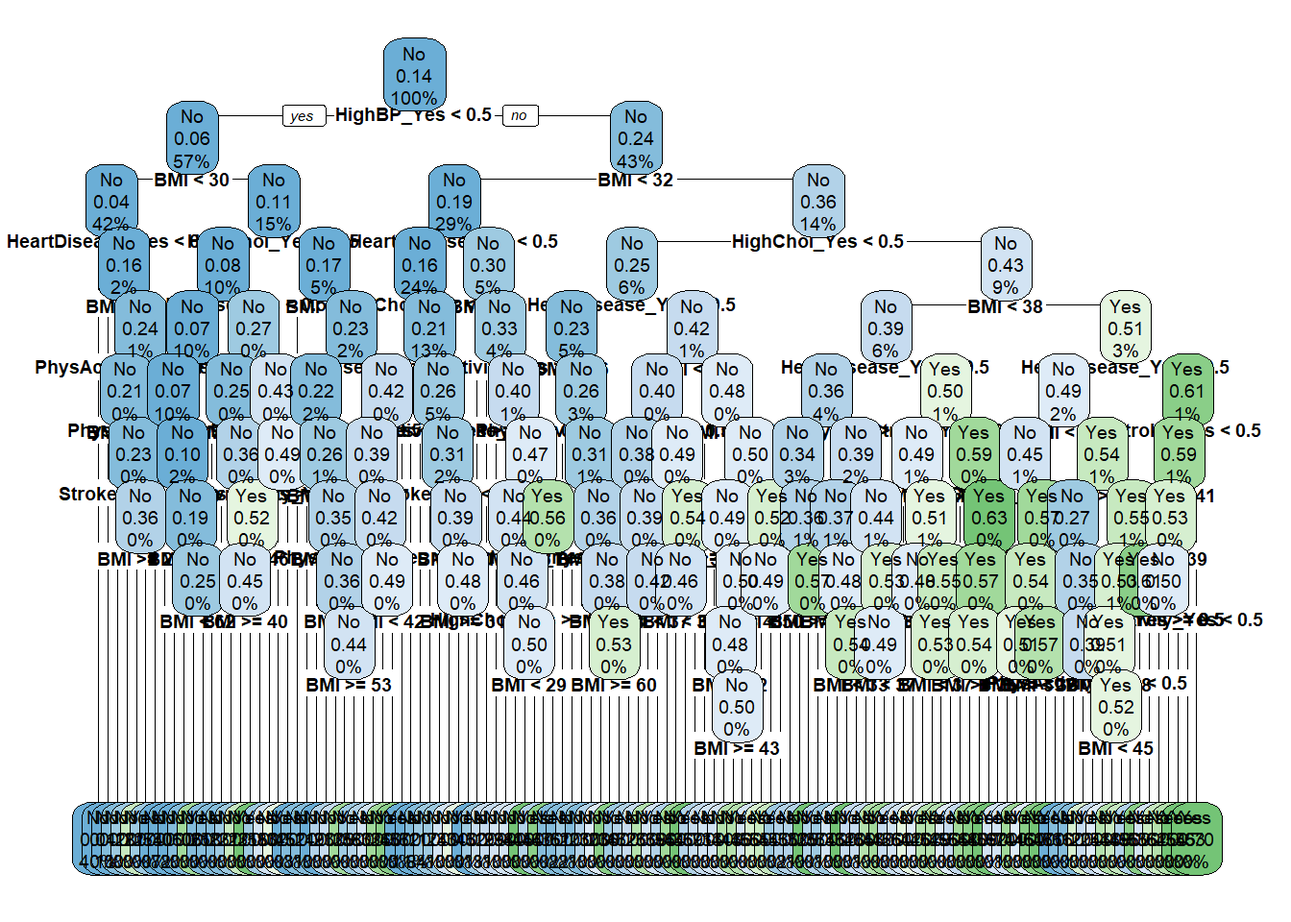
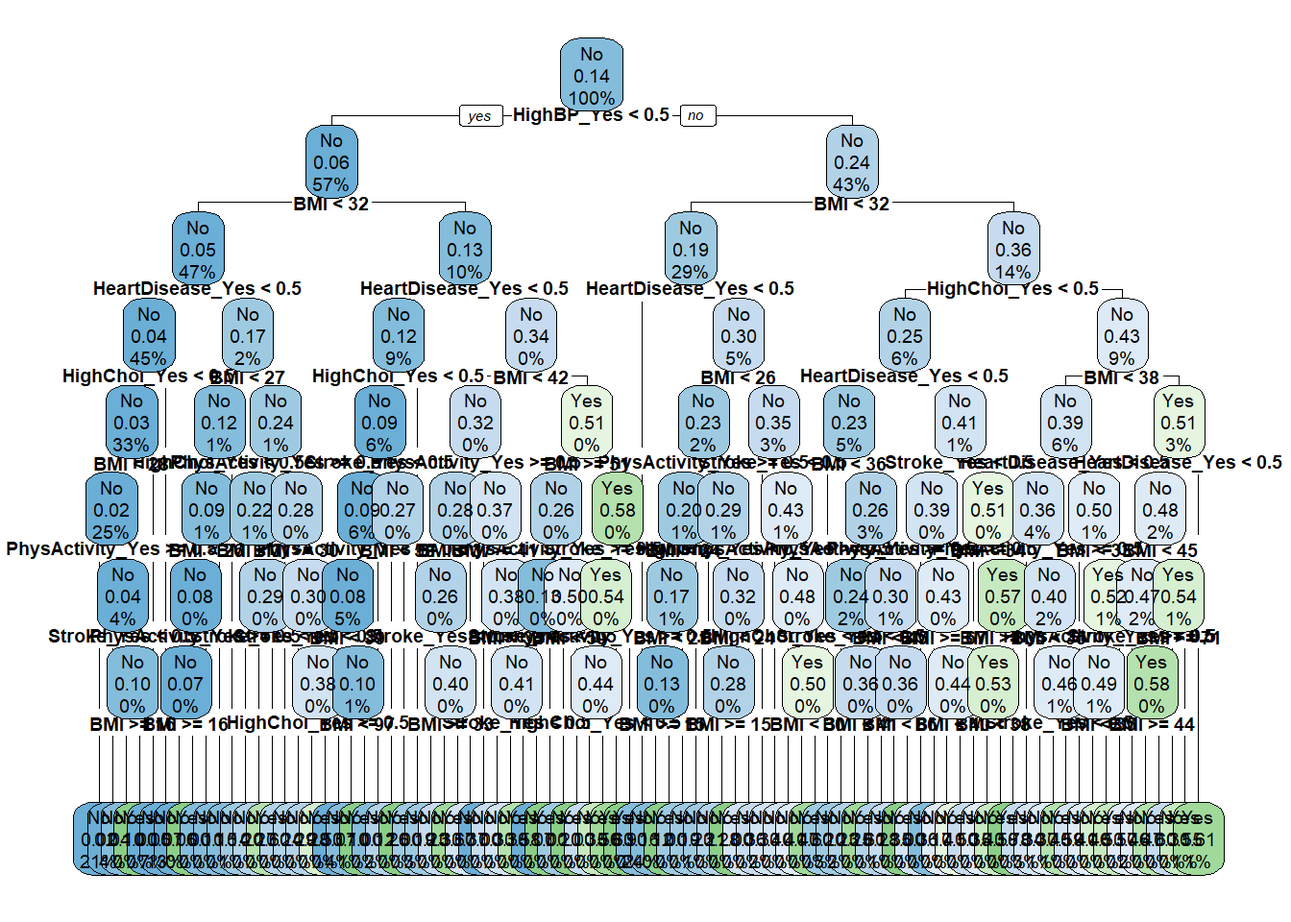
Final Commit

diff --git a/docs/Modeling.html b/docs/Modeling.html
@@ -135,7 +135,7 @@ pre > code.sourceCode > span > a:first-child::before { text-decoration: underlin
 
 <section id="purpose-of-model" class="level2">
 <h2 class="anchored" data-anchor-id="purpose-of-model">Purpose of Model</h2>
-<p>The Purpose of this modeling anlaysis is to use our six choosen predicator variables to find the best model fit that predicates diabetes status. Our metric used to evaluate the models will be log-loss, and the two model types will be a classification tree and a random forest. Both models will be trained using a 70/30 split with a 5 fold cross-validation.</p>
+<p>The Purpose of this modeling analysis is to use our six choosen predictor variables to find the best model fit that predicates diabetes status. Our metric used to evaluate the models will be log-loss, and the two model types will be a classification tree and a random forest. Both models will be trained using a 70/30 split with a 5 fold cross-validation.</p>
 <section id="reading-in-data" class="level3">
 <h3 class="anchored" data-anchor-id="reading-in-data">Reading in Data</h3>
 <div class="cell">
@@ -169,11 +169,11 @@ pre > code.sourceCode > span > a:first-child::before { text-decoration: underlin
 ✖ dplyr::lag()      masks stats::lag()
 ✖ yardstick::spec() masks readr::spec()
 ✖ recipes::step()   masks stats::step()
-• Learn how to get started at https://www.tidymodels.org/start/</code></pre>
+• Use suppressPackageStartupMessages() to eliminate package startup messages</code></pre>
 </div>
 <div class="sourceCode cell-code" id="cb5"><pre class="sourceCode r code-with-copy"><code class="sourceCode r"><span id="cb5-1"><a href="#cb5-1" aria-hidden="true" tabindex="-1"></a><span class="fu">library</span>(ranger)</span>
 <span id="cb5-2"><a href="#cb5-2" aria-hidden="true" tabindex="-1"></a><span class="fu">library</span>(parsnip)</span>
-<span id="cb5-3"><a href="#cb5-3" aria-hidden="true" tabindex="-1"></a><span class="fu">library</span>(readr)</span></code><button title="Copy to Clipboard" class="code-copy-button"><i class="bi"></i></button></pre></div>
+<span id="cb5-3"><a href="#cb5-3" aria-hidden="true" tabindex="-1"></a><span class="fu">library</span>(readr) <span class="co"># rendering was having issues with read_csv when linked thought this may help</span></span></code><button title="Copy to Clipboard" class="code-copy-button"><i class="bi"></i></button></pre></div>
 </div>
 <div class="cell">
 <div class="sourceCode cell-code" id="cb6"><pre class="sourceCode r code-with-copy"><code class="sourceCode r"><span id="cb6-1"><a href="#cb6-1" aria-hidden="true" tabindex="-1"></a><span class="co"># Reading in CSV file of DHI data</span></span>
@@ -248,13 +248,13 @@ dbl (22): Diabetes_binary, HighBP, HighChol, CholCheck, BMI, Smoker, Stroke,...
 <span id="cb11-5"><a href="#cb11-5" aria-hidden="true" tabindex="-1"></a>    <span class="st">"HeartDisease"</span> <span class="ot">=</span> HeartDiseaseorAttack,</span>
 <span id="cb11-6"><a href="#cb11-6" aria-hidden="true" tabindex="-1"></a>    <span class="st">"HvyAlch"</span> <span class="ot">=</span> HvyAlcoholConsump,</span>
 <span id="cb11-7"><a href="#cb11-7" aria-hidden="true" tabindex="-1"></a>    <span class="st">"Healthcare"</span> <span class="ot">=</span> AnyHealthcare,</span>
-<span id="cb11-8"><a href="#cb11-8" aria-hidden="true" tabindex="-1"></a>    <span class="st">"NoDoc"</span> <span class="ot">=</span> NoDocbcCost,</span>
+<span id="cb11-8"><a href="#cb11-8" aria-hidden="true" tabindex="-1"></a>    <span class="st">"NoDoc"</span> <span class="ot">=</span> NoDocbcCost</span>
 <span id="cb11-9"><a href="#cb11-9" aria-hidden="true" tabindex="-1"></a>  )</span></code><button title="Copy to Clipboard" class="code-copy-button"><i class="bi"></i></button></pre></div>
 </div>
 </section>
 <section id="classification-tree" class="level3">
 <h3 class="anchored" data-anchor-id="classification-tree">Classification Tree</h3>
-<p>The first model we will be creating is a classification tree, which is a logistic regression model commonly used when you have a binary response variable, such as Diabetes status in our case. It is a tree based model meaning that is based upon the a decision tree, which is a representation how different predictor variables can be used to create a prediction of a target value. A classification tree “normally” works by using the most commonly occurring class of observations as the predictions for its regions, and these regions are created by splitting up the predictor space. This allows for numerous predictions to be made . Properly choosing the number of splits is important to control for overfitting (too many splits) and underfitting (too few splits), unfortunately their is no optimal algorithm to choose splits and the quantity must factor in the benefit/cost of increased processing time. Generally you will start with more splits then prune them down in order make sure that the model is not overfitted (aka does not predict well when using unseen data), and in our case we will be using cross-validation to achieve this. Specifically, by splitting our data up into different folds we can test how pruning impacts predictions when tested on various portions of the data.</p>
+<p>The first model we will be creating is a classification tree, which is a logistic regression model commonly used when you have a binary response variable, such as Diabetes status in our case. It is a tree based model meaning that is based upon the a decision tree, which is a representation how different predictor variables can be used to create a prediction of a target value. A classification tree “normally” works by using the most commonly occurring class of observations as the predictions for its regions, and these regions are created by splitting up the predictor space. Properly choosing the number of splits is important to control for overfitting (too many splits) and underfitting (too few splits), unfortunately their is no optimal algorithm to choose splits and the quantity must factor in the benefit/cost of increased processing time. Generally you will start with more splits then prune them down in order make sure that the model is not overfitted (aka does not predict well when using unseen data), and in our case we will be using cross-validation to achieve this. Specifically, by splitting our data up into different folds we can test how pruning impacts predictions when tested on various portions of the data.</p>
 <p>Now that we have that explanation of what a classification tree is, we need to begin the process of building the relevant recipes, specs, and workflow. Before that we should create our CV split, and then subset our data by 20% in order to save on processing time. Also of note as we are using a highly imbalanced target variable it will be a good idea to stratify our sample and CV splits.</p>
 <div class="cell">
 <div class="sourceCode cell-code" id="cb12"><pre class="sourceCode r code-with-copy"><code class="sourceCode r"><span id="cb12-1"><a href="#cb12-1" aria-hidden="true" tabindex="-1"></a><span class="co"># Data split and 5 fold CV (Will be using this later to get the best possible model)</span></span>
@@ -308,16 +308,16 @@ dbl (22): Diabetes_binary, HighBP, HighChol, CholCheck, BMI, Smoker, Stroke,...
 <pre><code># A tibble: 125 × 9
    cost_complexity tree_depth min_n .metric     .estimator  mean     n std_err
              &lt;dbl&gt;      &lt;int&gt; &lt;int&gt; &lt;chr&gt;       &lt;chr&gt;      &lt;dbl&gt; &lt;int&gt;   &lt;dbl&gt;
- 1    0.0000000001         11    30 mn_log_loss binary     0.345     5 0.00107
- 2    0.0000000178         11    30 mn_log_loss binary     0.345     5 0.00107
- 3    0.00000316           11    30 mn_log_loss binary     0.345     5 0.00107
- 4    0.0000000001         15    30 mn_log_loss binary     0.345     5 0.00107
- 5    0.0000000178         15    30 mn_log_loss binary     0.345     5 0.00107
- 6    0.00000316           15    30 mn_log_loss binary     0.345     5 0.00107
- 7    0.0000000001         11    21 mn_log_loss binary     0.345     5 0.00108
- 8    0.0000000178         11    21 mn_log_loss binary     0.345     5 0.00108
- 9    0.00000316           11    21 mn_log_loss binary     0.345     5 0.00108
-10    0.0000000001         15    21 mn_log_loss binary     0.345     5 0.00109
+ 1    0.0000000001          8     2 mn_log_loss binary     0.344     5 0.00135
+ 2    0.0000000178          8     2 mn_log_loss binary     0.344     5 0.00135
+ 3    0.00000316            8     2 mn_log_loss binary     0.344     5 0.00135
+ 4    0.0000000001          8    11 mn_log_loss binary     0.346     5 0.00183
+ 5    0.0000000178          8    11 mn_log_loss binary     0.346     5 0.00183
+ 6    0.00000316            8    11 mn_log_loss binary     0.346     5 0.00183
+ 7    0.0000000001          8    21 mn_log_loss binary     0.346     5 0.00142
+ 8    0.0000000178          8    21 mn_log_loss binary     0.346     5 0.00142
+ 9    0.00000316            8    21 mn_log_loss binary     0.346     5 0.00142
+10    0.0000000001         11    30 mn_log_loss binary     0.347     5 0.00139
 # ℹ 115 more rows
 # ℹ 1 more variable: .config &lt;chr&gt;</code></pre>
 </div>
@@ -359,11 +359,11 @@ dbl (22): Diabetes_binary, HighBP, HighChol, CholCheck, BMI, Smoker, Stroke,...
 </div>
 </div>
 </div>
-<p>Based off this plot we can tell that HighBP is the most important predictor as it is the variable used to start the decision process, with a BMI by the next most important node.</p>
+<p>Based off this plot we can tell that HighBP is the most important predictor as it is the variable used to start the decision process, with BMI being the next most important node.</p>
 </section>
 <section id="random-forest" class="level3">
 <h3 class="anchored" data-anchor-id="random-forest">Random Forest</h3>
-<p>The next model we will be creating is a Random Forest model which is similar to the classification tree, in that the model builds a number of splits of predictors to find the best model, but instead of using the most common class of observation it instead uses a random sample of the predictors. This random sample is represented by mtry, and a fresh sample of the predictors is taken every time the tree makes a split. Another big difference is that similar to a bagged tree the model also uses bootstrapping to aggregate results from various tree to make a final prediction, but as it does not use all predictor variables every time it has the potential to reduce the risk of overfitting the model (bagged trees are more correlated, due to being influenced by strong predictors). The random forest model is less prone to over fitting than the classification tree model, and can potentially achieve greater accuracy due to this than a classification tree.</p>
+<p>The next model we will be creating is a Random Forest model which is similar to the classification tree, in that the model builds a number of splits of the predictors to find the best model, but instead of using the most common class of observation it instead uses a random sample of the predictors. This random sample is represented by mtry, and a fresh sample of the predictors is taken every time the tree makes a split. Another big difference is that similar to a bagged tree the model also uses bootstrapping to aggregate results from various tree to make a final prediction, but as it does not use all predictor variables every time it has the potential to reduce the risk of overfitting the model (bagged trees are more correlated, due to being influenced by strong predictors). The random forest model is less prone to over fitting than the classification tree model, and can potentially achieve greater accuracy due to this than a classification tree.</p>
 <div class="cell">
 <div class="sourceCode cell-code" id="cb22"><pre class="sourceCode r code-with-copy"><code class="sourceCode r"><span id="cb22-1"><a href="#cb22-1" aria-hidden="true" tabindex="-1"></a><span class="co"># creating model </span></span>
 <span id="cb22-2"><a href="#cb22-2" aria-hidden="true" tabindex="-1"></a>rf_spec <span class="ot">&lt;-</span> <span class="fu">rand_forest</span>(<span class="at">mtry =</span> <span class="fu">tune</span>()) <span class="sc">|&gt;</span></span>
@@ -393,12 +393,12 @@ dbl (22): Diabetes_binary, HighBP, HighChol, CholCheck, BMI, Smoker, Stroke,...
 <pre><code># A tibble: 6 × 7
    mtry .metric     .estimator  mean     n  std_err .config             
   &lt;int&gt; &lt;chr&gt;       &lt;chr&gt;      &lt;dbl&gt; &lt;int&gt;    &lt;dbl&gt; &lt;chr&gt;               
-1     3 mn_log_loss binary     0.338     5 0.000566 Preprocessor1_Model3
-2     4 mn_log_loss binary     0.338     5 0.000538 Preprocessor1_Model1
-3     2 mn_log_loss binary     0.339     5 0.000527 Preprocessor1_Model4
-4     5 mn_log_loss binary     0.339     5 0.000550 Preprocessor1_Model5
-5     6 mn_log_loss binary     0.349     5 0.00215  Preprocessor1_Model2
-6     1 mn_log_loss binary     0.350     5 0.000414 Preprocessor1_Model6</code></pre>
+1     3 mn_log_loss binary     0.338     5 0.000664 Preprocessor1_Model2
+2     4 mn_log_loss binary     0.338     5 0.000659 Preprocessor1_Model1
+3     2 mn_log_loss binary     0.339     5 0.000624 Preprocessor1_Model5
+4     5 mn_log_loss binary     0.340     5 0.000719 Preprocessor1_Model6
+5     6 mn_log_loss binary     0.348     5 0.00162  Preprocessor1_Model3
+6     1 mn_log_loss binary     0.351     5 0.000343 Preprocessor1_Model4</code></pre>
 </div>
 <div class="sourceCode cell-code" id="cb27"><pre class="sourceCode r code-with-copy"><code class="sourceCode r"><span id="cb27-1"><a href="#cb27-1" aria-hidden="true" tabindex="-1"></a><span class="co"># Grabbing best one</span></span>
 <span id="cb27-2"><a href="#cb27-2" aria-hidden="true" tabindex="-1"></a>best_rf_param <span class="ot">&lt;-</span> rf_fit <span class="sc">|&gt;</span></span>
@@ -430,7 +430,7 @@ dbl (22): Diabetes_binary, HighBP, HighChol, CholCheck, BMI, Smoker, Stroke,...
 </div>
 </div>
 </div>
-<p>As we can see based off this model once again a yes status to HighBP and BMI are the most importance predictors for diabetes status, with a yes status to HeartDisease and HighChol also being important for the model. PhysActivity yes status and stroke yes status do not appear to have a high level of importance in this model.</p>
+<p>As we can see based off this model once again a yes status to HighBP and BMI are the most important predictors for diabetes status, with a yes status to HeartDisease and HighChol also being important for the model. PhysActivity yes status and stroke yes status do not appear to have a high level of importance in this model.</p>
 </section>
 <section id="selecting-and-fitting-the-best-model" class="level3">
 <h3 class="anchored" data-anchor-id="selecting-and-fitting-the-best-model">Selecting and fitting the Best Model</h3>
@@ -443,7 +443,7 @@ dbl (22): Diabetes_binary, HighBP, HighChol, CholCheck, BMI, Smoker, Stroke,...
 <pre><code># A tibble: 1 × 4
   .metric     .estimator .estimate .config             
   &lt;chr&gt;       &lt;chr&gt;          &lt;dbl&gt; &lt;chr&gt;               
-1 mn_log_loss binary         0.344 Preprocessor1_Model1</code></pre>
+1 mn_log_loss binary         0.349 Preprocessor1_Model1</code></pre>
 </div>
 <div class="sourceCode cell-code" id="cb31"><pre class="sourceCode r code-with-copy"><code class="sourceCode r"><span id="cb31-1"><a href="#cb31-1" aria-hidden="true" tabindex="-1"></a><span class="co"># Metrics for Random Forest Model</span></span>
 <span id="cb31-2"><a href="#cb31-2" aria-hidden="true" tabindex="-1"></a>rf_final <span class="sc">|&gt;</span></span>
@@ -455,7 +455,7 @@ dbl (22): Diabetes_binary, HighBP, HighChol, CholCheck, BMI, Smoker, Stroke,...
 1 mn_log_loss binary         0.339 Preprocessor1_Model1</code></pre>
 </div>
 </div>
-<p>Based off these results the Random Forest Model is the best model as it has the lowest log loss at 0.341 compared to 0.350 for the classification tree model. This was expected as generally speaking random forest models can be expected to have a higher accuracy than a classification tree. The final step now is to take the model and fit it to the whole data set.</p>
+<p>Based off these results the Random Forest Model is the best model as it has the lower log loss out of the two models. This was expected as generally speaking random forest models can be expected to have a higher accuracy than a classification tree. The final step now is to take the model and fit it to the whole data set.</p>
 <div class="cell">
 <div class="sourceCode cell-code" id="cb33"><pre class="sourceCode r code-with-copy"><code class="sourceCode r"><span id="cb33-1"><a href="#cb33-1" aria-hidden="true" tabindex="-1"></a><span class="co"># fitting the best model </span></span>
 <span id="cb33-2"><a href="#cb33-2" aria-hidden="true" tabindex="-1"></a>best_overall_model <span class="ot">&lt;-</span> rf_wkflw <span class="sc">|&gt;</span></span>
@@ -486,9 +486,10 @@ Mtry:                             3
 Target node size:                 10 
 Variable importance mode:         impurity 
 Splitrule:                        gini 
-OOB prediction error (Brier s.):  0.102863 </code></pre>
+OOB prediction error (Brier s.):  0.1028644 </code></pre>
 </div>
 </div>
+<p>Now we have the knowledge of which model is the best we can use this to create our API, as we will be replicating this process and creating an interactive medium to create predictions of diabetes status.</p>
 
 
 </section>

diff --git a/docs/EDA.html b/docs/EDA.html
@@ -142,6 +142,8 @@ pre > code.sourceCode > span > a:first-child::before { text-decoration: underlin
 
 <section id="eda-of-diabetes-health-indicators-dataset" class="level2">
 <h2 class="anchored" data-anchor-id="eda-of-diabetes-health-indicators-dataset">EDA of Diabetes Health Indicators Dataset</h2>
+<p>The purpose of this document is to perform exploratory data analysis of the Diabetes Health Indicators Dataset. The Health Indicators Dataset contains content from the The 2015 Behavioral Risk Factor Surveillance System (BRFSS) telephone survey, which is a national CDC ran survey used to collect data on human health behavior and chronic conditions. The content from the survey has been choosen with the specific purpose of analyzing factors related to diabetes.</p>
+<p>Our first steps in analyzing the data will be to read in the document, validate the data, then clean the data. After that we will create numeric and categorical summaries as well as plots of all the variables. This will hopefully help us decide which variables may be important in determining whether someone may have diabetes (or risk of developing).</p>
 <section id="data-validation-and-cleaning" class="level3">
 <h3 class="anchored" data-anchor-id="data-validation-and-cleaning">Data Validation and Cleaning</h3>
 <div class="cell">
@@ -194,7 +196,7 @@ dbl (22): Diabetes_binary, HighBP, HighChol, CholCheck, BMI, Smoker, Stroke,...
 #   DiffWalk &lt;dbl&gt;, Sex &lt;dbl&gt;, Age &lt;dbl&gt;, Education &lt;dbl&gt;, Income &lt;dbl&gt;</code></pre>
 </div>
 </div>
-<p>Creating factor creating function</p>
+<p>Creating a function to speed up the process of converting our binary variables into factors, as R tends to run better when using factors for them.</p>
 <div class="cell">
 <div class="sourceCode cell-code" id="cb7"><pre class="sourceCode r code-with-copy"><code class="sourceCode r"><span id="cb7-1"><a href="#cb7-1" aria-hidden="true" tabindex="-1"></a><span class="co"># Function to change binary variables into factors</span></span>
 <span id="cb7-2"><a href="#cb7-2" aria-hidden="true" tabindex="-1"></a>binary_creator <span class="ot">&lt;-</span> <span class="cf">function</span>(data){</span>
@@ -233,7 +235,7 @@ dbl (22): Diabetes_binary, HighBP, HighChol, CholCheck, BMI, Smoker, Stroke,...
 <span id="cb8-5"><a href="#cb8-5" aria-hidden="true" tabindex="-1"></a>    <span class="st">"HeartDisease"</span> <span class="ot">=</span> HeartDiseaseorAttack,</span>
 <span id="cb8-6"><a href="#cb8-6" aria-hidden="true" tabindex="-1"></a>    <span class="st">"HvyAlch"</span> <span class="ot">=</span> HvyAlcoholConsump,</span>
 <span id="cb8-7"><a href="#cb8-7" aria-hidden="true" tabindex="-1"></a>    <span class="st">"Healthcare"</span> <span class="ot">=</span> AnyHealthcare,</span>
-<span id="cb8-8"><a href="#cb8-8" aria-hidden="true" tabindex="-1"></a>    <span class="st">"NoDoc"</span> <span class="ot">=</span> NoDocbcCost,</span>
+<span id="cb8-8"><a href="#cb8-8" aria-hidden="true" tabindex="-1"></a>    <span class="st">"NoDoc"</span> <span class="ot">=</span> NoDocbcCost</span>
 <span id="cb8-9"><a href="#cb8-9" aria-hidden="true" tabindex="-1"></a>  )</span></code><button title="Copy to Clipboard" class="code-copy-button"><i class="bi"></i></button></pre></div>
 </div>
 <p>Checking for missing values, this should be zero since the dataset being used has already been cleaned.</p>
@@ -255,7 +257,7 @@ dbl (22): Diabetes_binary, HighBP, HighChol, CholCheck, BMI, Smoker, Stroke,...
 </section>
 <section id="summary-statistics-and-graphs" class="level3">
 <h3 class="anchored" data-anchor-id="summary-statistics-and-graphs">Summary Statistics and Graphs</h3>
-<p>Now we need to create some summary stats and to start we are going to look at the summaries of some numeric variables to start. We will also be doing this while grouping by the Diabetes column as we want to see how these variables impact Diabetes status.</p>
+<p>Now we need to create some summary stats and to start we are going to look at the summaries of some numeric variables. We will also be doing this while grouping by the Diabetes column as we want to see how these variables impact Diabetes status.</p>
 <div class="cell">
 <div class="sourceCode cell-code" id="cb11"><pre class="sourceCode r code-with-copy"><code class="sourceCode r"><span id="cb11-1"><a href="#cb11-1" aria-hidden="true" tabindex="-1"></a><span class="co"># Creating function to grab numeric summary stats</span></span>
 <span id="cb11-2"><a href="#cb11-2" aria-hidden="true" tabindex="-1"></a>numeric_summary <span class="ot">&lt;-</span> <span class="cf">function</span>(data, <span class="at">group_var =</span> <span class="st">"Diabetes"</span>){</span>
@@ -324,7 +326,7 @@ $Age
 2 Age      Yes       9.38     10  2.33     3     1    13</code></pre>
 </div>
 </div>
-<p>Some interesting findings can be found based off these results. The first being that the mean and median BMI is lower in the No Diabetes group (27.8/27 to 31.9/31), the mean poor mental health days was lower in the No diabetes group (2.98 to 4.46) but the median was zero for both, the mean was also much higher in the yes diabetes group for number of poor physical health days (3.64 to 7.95) but again the medians were not signficanlty different (0 to 1), and finally we find that the mean and median were higher in the yes diabetes group for age (7.81/8 to 9.38/10). This could indicate that the MentHlth and PhysHlth variables have data that is skewed with most individuals having no issues most days, but a few individuals with a lot of negative days. To investiage further we should look at some density plots and some bar plots.</p>
+<p>Some interesting findings can be found based off these results. The first being that the mean and median BMI is lower in the No Diabetes group (27.8/27 to 31.9/31), the mean poor mental health days was lower in the No diabetes group (2.98 to 4.46) but the median was zero for both, the mean was also much higher in the yes diabetes group for number of poor physical health days (3.64 to 7.95) but again the medians were not significantly different (0 to 1), and finally we find that the mean and median were higher in the yes diabetes group for age (7.81/8 to 9.38/10). This could indicate that the MentHlth and PhysHlth variables have data that is skewed with most individuals having no issues most days, but a few individuals with a lot of negative days. To investigate further we should look at some density plots and some bar plots.</p>
 <div class="cell">
 <div class="sourceCode cell-code" id="cb13"><pre class="sourceCode r code-with-copy"><code class="sourceCode r"><span id="cb13-1"><a href="#cb13-1" aria-hidden="true" tabindex="-1"></a><span class="co"># Creating densityplots while colored by Diabetes status</span></span>
 <span id="cb13-2"><a href="#cb13-2" aria-hidden="true" tabindex="-1"></a><span class="fu">ggplot</span>(dhi_data, <span class="fu">aes</span>(<span class="at">x =</span> BMI, <span class="at">fill =</span> Diabetes)) <span class="sc">+</span></span>
@@ -412,7 +414,7 @@ $Age
 </div>
 </div>
 </div>
-<p>The graphs confirm our (fill out more later)</p>
+<p>The graphs confirm that the distribution of diabetes status is not flat across the numeric variables, meaning that they may have some influence on predicting whether or not someone will have diabetes. It also supported the idea that the data is not uniformally distributed with variables, such as PhysHlth showcasing how most individuals have few or zero poor physical health days, but that 30 poor physical health days is the next most frequent response. The density plot for BMI is also quite interesting as it shows that the distribution for BMI is follows a similar shape between the no and yes groups, but that the Yes group is further to the right than the NO group. Indicating that people with Diabetes are more likely to have higher BMIs.</p>
 <p>The next step is going to be to create some contingency tables comparing counts of the variables to the diabetes status, we can make a function that will do this for each variable we have turned into a factor.</p>
 <div class="cell">
 <div class="sourceCode cell-code" id="cb20"><pre class="sourceCode r code-with-copy"><code class="sourceCode r"><span id="cb20-1"><a href="#cb20-1" aria-hidden="true" tabindex="-1"></a><span class="co"># Function to create two way contingency tables</span></span>
@@ -587,8 +589,8 @@ Diabetes  75k_more
 </div>
 </div>
 <p>Some notable things can be gleamed from these proportion tables, with HighBP, HighChol, Stroke, HeartDisease, PhysActivity, HvyAlch, DiffWalk, Education, and Income being the most interesting variables. A much higher proportion of individuals with High BP had diabetes than individuals with normal BP (24.45% to 6.04 %), a similar occurrence is seen in individuals with high cholesterol (22.015% to 7.98%), individuals who have had a stroke (31.75% to 13.18%), individuals with heart disease (32.97% to 11.95%), and individuals with difficulty walking (30.74% to 10.53%). Individuals who were physically active in the last 30 days had a lower proportion of diabetes (11.61% to 21.14%), Individuals with higher levels of education had a lower proportion of diabetes (9.69% for college grads to 27.01% for those with no schooling), and individuals with higher incomes had a lower proprtion of diabets (7.96% for those who make 75k or more to 24.28% for those who make less than 10k)</p>
-<p>The most striking variable has to be that individuals with heavy alcohol usage had an over two times lower rate of diabetes than individuals who do not heavily use alcohol (5.84% t0 12.97%), which may indicate that their are some confounding factors in the data. As research has indicated that heavy alcohol usage found to be correlated with Type Two Diabetes, but this could also be due to the limited option of the response as data has also shown moderate alcohol usage is negatively correlated with Type two diabetes.</p>
-<p>In order to keep this analysis from getting out of hands I am going to choose only 5 categorical variables to plot (bar plots), as I shall be using those alongside BMI to create a model in another document. The 5 variables I am going to choose are HighBp, HighChol, Stroke, PhysActivity, and HeartDisease. As these are all variables that may be correlated with one another.</p>
+<p>The most striking variable has to be that individuals with heavy alcohol usage had an over two times lower rate of diabetes than individuals who do not heavily use alcohol (5.84% to 12.97%), which may indicate that their are some confounding factors in the data. As research has indicated that heavy alcohol usage was found to be correlated with Type Two Diabetes, but this could also be due to the limited options to the response (only &gt;14 or &lt;14 drinks per week), as data has also shown moderate alcohol usage is negatively correlated with Type two diabetes.</p>
+<p>In order to keep this analysis from getting out of hands I am going to choose only 5 categorical variables to plot (bar plots), as I shall be using those alongside BMI to create a model in another document. The 5 variables I am going to choose are HighBp, HighChol, Stroke, PhysActivity, and HeartDisease. As these are all variables that are likely to have an influence on diabets status.</p>
 <div class="cell">
 <div class="sourceCode cell-code" id="cb23"><pre class="sourceCode r code-with-copy"><code class="sourceCode r"><span id="cb23-1"><a href="#cb23-1" aria-hidden="true" tabindex="-1"></a><span class="co"># Creating faceit box plots</span></span>
 <span id="cb23-2"><a href="#cb23-2" aria-hidden="true" tabindex="-1"></a><span class="fu">ggplot</span>(dhi_data, <span class="fu">aes</span>(<span class="at">x =</span> HighBP)) <span class="sc">+</span></span>
@@ -657,7 +659,7 @@ Diabetes  75k_more
 </div>
 </div>
 </div>
-<p>These plots help us visualize the previously discussed proportions we found in the contigency tables, with Physical Activity (Yes) showing to have a higher proportion of No diabetes, while all other variables when present (Yes) are shown to have higher proportions of diabetes.</p>
+<p>These plots help us visualize the previously discussed proportions we found in the contingency tables, with Physical Activity (Yes) showing to have a higher proportion of No diabetes, while all other variables with a status (Yes) are shown to have higher proportions of diabetes. This indicates that these variables are likely to play an important part in predicting whether or not we should expect a yes or no diabetes status.</p>
 </section>
 </section>
 <section id="link-to-modeling-qmd" class="level2">
